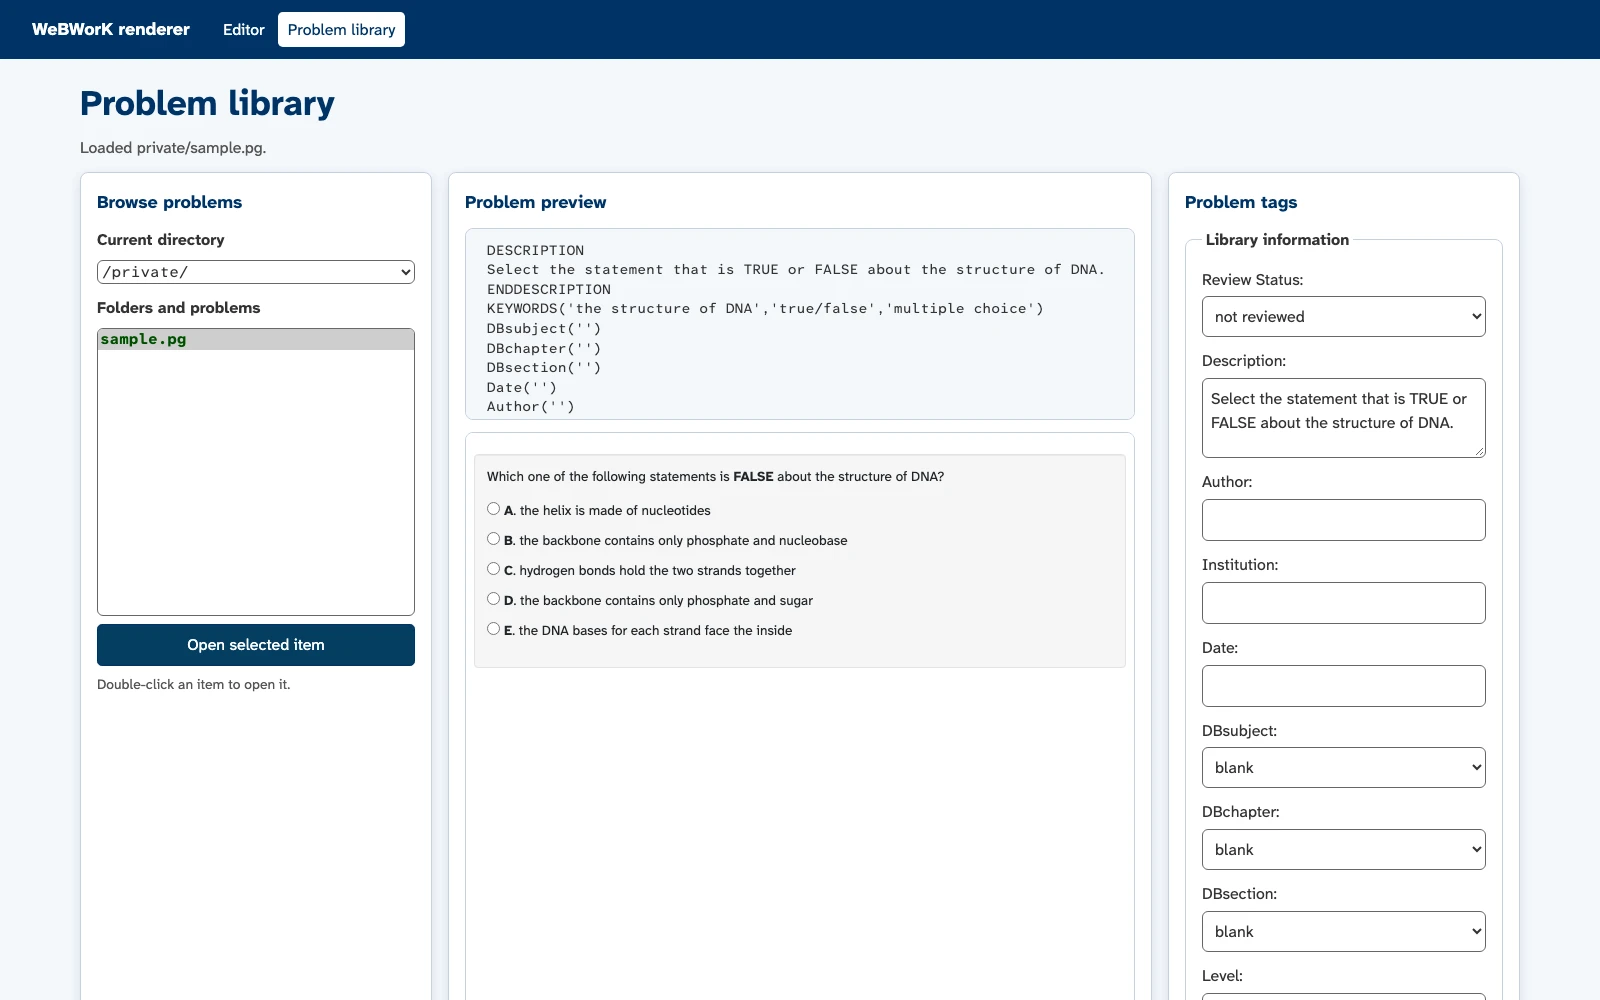
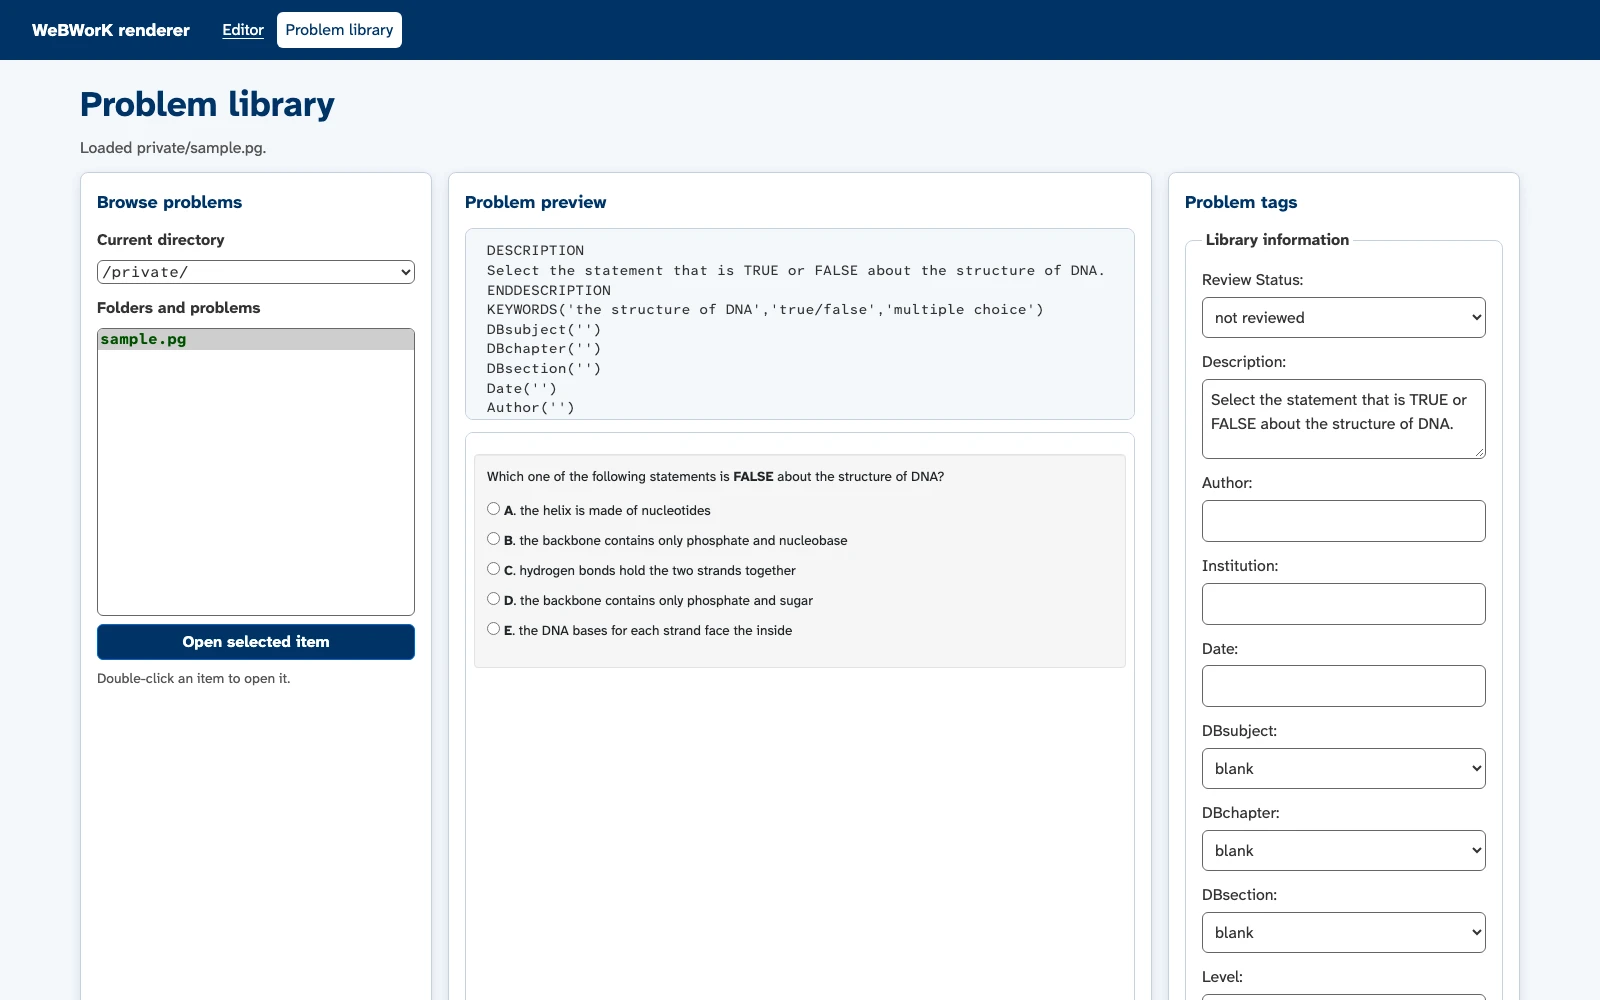
updated menu

diff --git a/public/css/navbar.css b/public/css/navbar.css
@@ -1,15 +1,22 @@
 :root {
   --renderer-navy: #003366;
-  --renderer-navy-hover: #043e62;
   --renderer-surface: #ffffff;
   --renderer-page: #f4f7fb;
   --renderer-border: #c7d1df;
   --renderer-control-border: #666666;
+  --renderer-control-height: 2.25rem;
+  --renderer-action: #0067cc;
   --renderer-text: #333333;
   --renderer-muted: #555555;
   --renderer-focus: #003366;
   --renderer-radius: 0.5rem;
   --renderer-shadow: 0 0.25rem 0.75rem rgb(0 51 102 / 12%);
+}
+
+@media (pointer: coarse) {
+  :root {
+    --renderer-control-height: 3rem;
+  }
 }
 
 * {
@@ -70,9 +77,33 @@ textarea {
   gap: 0.25rem;
 }
 
-.app-nav a {
-  border-radius: 0.3rem;
-  padding: 0.35rem 0.6rem;
+.app-nav a,
+.app-button,
+.app-field {
+  min-block-size: var(--renderer-control-height);
+  border-radius: 0.375rem;
+  padding: 0.25rem 0.55rem;
+}
+
+.app-nav a,
+.app-button {
+  display: inline-flex;
+  align-items: center;
+  justify-content: center;
+}
+
+.app-field {
+  border: 1px solid var(--renderer-control-border);
+  background: var(--renderer-surface);
+  color: var(--renderer-text);
+}
+
+select.app-field {
+  cursor: pointer;
+}
+
+select.app-field:hover {
+  border-color: var(--renderer-navy);
 }
 
 .app-nav a:not([aria-current="page"]) {
@@ -110,25 +141,29 @@ textarea {
 }
 
 .app-button {
-  border: 1px solid var(--renderer-navy);
-  border-radius: 0.3rem;
-  background: var(--renderer-navy);
+  border: 1px solid var(--renderer-action);
+  background: var(--renderer-action);
   color: #ffffff;
   cursor: pointer;
-  padding: 0.5rem 0.75rem;
+  font-weight: 700;
 }
 
-.app-button:hover {
-  background: var(--renderer-navy-hover);
+.app-button:is(:hover, :active) {
+  background: var(--renderer-navy);
 }
 
 .app-button--secondary {
-  background: var(--renderer-surface);
+  border-color: #80c0ff;
+  background: #ceebfd;
   color: var(--renderer-navy);
 }
 
-.app-button--secondary:hover {
-  background: var(--renderer-page);
+.app-button--secondary:is(:hover, :active) {
+  background: #bfd1e3;
+}
+
+.app-button--secondary:active {
+  box-shadow: inset 0 2px 0 var(--renderer-navy);
 }
 
 .app-button:disabled {
@@ -136,6 +171,10 @@ textarea {
   background: var(--renderer-page);
   color: var(--renderer-muted);
   cursor: default;
+}
+
+.app-button[aria-disabled="true"] {
+  cursor: wait;
 }
 
 .app-error {

diff --git a/public/css/twocolumn.css b/public/css/twocolumn.css
@@ -124,36 +124,6 @@
   accent-color: var(--renderer-navy);
 }
 
-.editor-actions input,
-.editor-actions select,
-.editor-actions button,
-.preview-controls button {
-  min-block-size: 2.25rem;
-  border: 1px solid var(--renderer-control-border, #666666);
-  border-radius: 0.375rem;
-  padding: 0.25rem 0.55rem;
-  color: var(--renderer-text);
-  background: var(--renderer-surface, #ffffff);
-  font: inherit;
-}
-
-.editor-actions select,
-.editor-actions button,
-.preview-controls button {
-  cursor: pointer;
-}
-
-.editor-actions button {
-  border-color: #80c0ff;
-  background: #ceebfd;
-  color: var(--renderer-navy);
-  font-weight: 700;
-}
-
-.editor-actions button:active {
-  box-shadow: inset 0 2px 0 var(--renderer-navy);
-}
-
 #sourceFilePath {
   flex: 1 1 8rem;
   min-inline-size: 0;
@@ -198,33 +168,9 @@
   }
 }
 
-#render-button {
-  border-color: var(--renderer-action, #0067cc);
-  background: var(--renderer-action, #0067cc);
-  color: #ffffff;
-  font-weight: 700;
-}
-
-.editor-actions button:hover {
-  background: #bfd1e3;
-}
-
-.editor-actions select:hover {
-  border-color: var(--renderer-navy);
-}
-
-#render-button:is(:hover, :active) {
-  background: var(--renderer-action-hover, #003366);
-}
-
-:is(.editor-actions, .preview-controls) button[aria-disabled="true"] {
-  cursor: wait;
-}
-
 @media (pointer: coarse) {
-  .editor-actions :is(input, select, button),
-  .preview-controls :is(button, label) {
-    min-block-size: 3rem;
+  .preview-controls label {
+    min-block-size: var(--renderer-control-height);
   }
 }
 

diff --git a/docs/CHANGELOG.md b/docs/CHANGELOG.md
@@ -7,7 +7,8 @@
 - Refresh the editor, problem library, and HTML error pages with responsive layouts, keyboard
   controls, and inline feedback for file, render, and tag operations.
 - Fit file and render settings in a compact top bar with distinct buttons, field labels, and
-  a dropdown chevron. Give most of the desktop viewport to the source and rendered preview.
+  a dropdown chevron. Share control sizing and button styles between the editor and library.
+  Give most of the desktop viewport to the source and rendered preview.
 - Update the static asset installation check page to match the renderer interface.
 - Bundle Atkinson Hyperlegible Next and Mono for the interface and generated problems. Load
   renderer defaults ahead of problem-authored styles so problems can override them.
